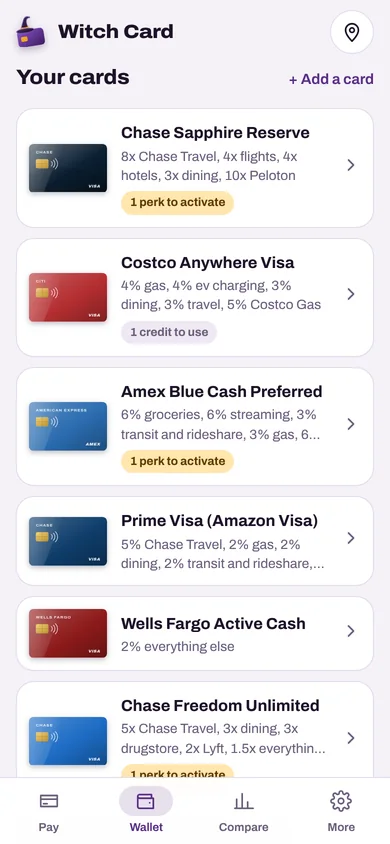
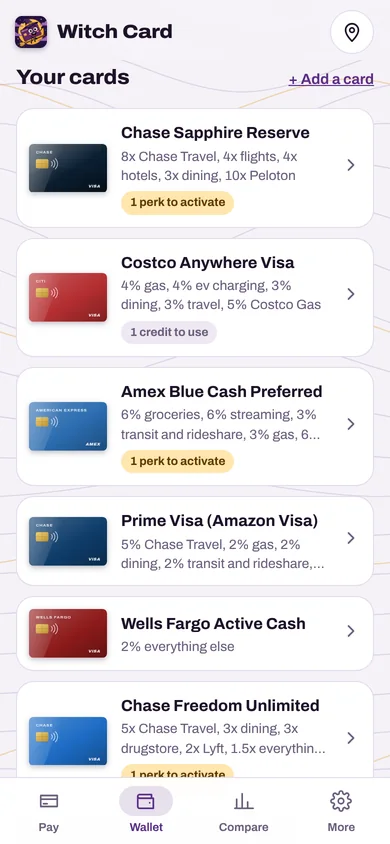
Witch Card: today's changes on the site
Product page: one screen at the counter with nothing to type, Compare as a scale from weak to great with the company asterisk, sign-up offers for your goal, the camera that reads a card, the new mascot icon in the demo bar, 229 cards; the on-page demo drops the amount like the app did. New Compare screen and recaptured screens, captured without the amount field the app no longer has, plus a Best cards capture. Release history, updates page and home page carry October 31 and November 1. Privacy policy adds the camera and drops I used it, effective November 1.

diff --git a/src/pages/products/witch-card.html b/src/pages/products/witch-card.html
@@ -1,6 +1,6 @@
 <!--
 title: Witch Card
-description: Witch Card, formerly Which Card, is a phone app that tells you which credit card to use at the register. Open it at the store and it tells you where you are standing and which of your cards earns the most there. 228 cards from 25 issuers, with no ads, no sponsors, and no referral links.
+description: Witch Card, formerly Which Card, is a phone app that tells you which credit card to use at the register. Open it at the store and it tells you where you are standing and which of your cards earns the most there, on one screen. 229 cards from 25 issuers, with no ads, no sponsors, and no referral links.
 nav: products
 priority: 0.8
 styles: assets/css/product.css
@@ -11,7 +11,7 @@ scripts: assets/js/product.js
     <div class="phero-copy">
       <span class="eyebrow">Product</span>
       <h1>Witch Card</h1>
-      <p class="lede">Open it at the store and it tells you where you are standing and which of your cards to use there, with every other card in your wallet ranked under it. Type the amount and the answer comes in dollars and cents. No magic, just math.</p>
+      <p class="lede">Open it at the store and it tells you where you are standing and which of your cards to use there, with every other card in your wallet ranked under it, all on one screen with nothing to type. No magic, just math.</p>
       <div class="product-hero-meta">
         <span class="badge badge-ok">Phone web app: available</span>
         <span class="badge badge-brass">App Store and Google Play: in testing</span>
@@ -41,26 +41,25 @@ scripts: assets/js/product.js
       <div class="demo-copy">
         <span class="eyebrow">Try a piece of it</span>
         <h2>Which card, at which store?</h2>
-        <p>This is the app's answer screen with six common cards and the app's own rates for them. In the app, your location picks the store the moment you open it; here, tap a store to stand in it. Change the amount and turn cards off to watch the answer change. Nothing here is saved or sent anywhere.</p>
+        <p>This is the app's answer screen with six common cards and the app's own rates for them. In the app, your location picks the store the moment you open it; here, tap a store to stand in it and turn cards off to watch the answer change. Nothing here is saved or sent anywhere.</p>
       </div>
       <div class="wc-device">
         <div class="wc-screen">
           <span class="wc-notch" aria-hidden="true"></span>
-          <div class="wc-bar"><svg class="wc-mark" viewBox="0 -6 46 42" aria-hidden="true" focusable="false"><defs><linearGradient id="wcm-card" x1="0" y1="0" x2="1" y2="1"><stop offset="0" stop-color="#8A55C9"/><stop offset="1" stop-color="#3B1A60"/></linearGradient><linearGradient id="wcm-hat" x1="0" y1="0" x2="1" y2="1"><stop offset="0" stop-color="#4A2F6E"/><stop offset="1" stop-color="#170D20"/></linearGradient></defs><g transform="rotate(-9 23 25)"><rect x="6" y="14" width="33" height="21" rx="4.5" fill="url(#wcm-card)"/><rect x="10" y="22" width="8" height="6" rx="1.6" fill="#F6A623"/><path d="M11 14.6 Q 14 6.5 17 0.5 Q 19.6 -3.8 24.8 -1.2 Q 25.4 -0.6 24.2 -0.3 Q 21 -0.8 20 2.6 Q 18.8 8 22.6 14.6 Z" fill="url(#wcm-hat)" stroke="#7A5AA8" stroke-width=".8" stroke-linejoin="round"/><path d="M11.7 12.6 Q 16.8 13.6 21.9 12.6 L 21.2 10.2 Q 16.8 11.1 12.6 10.2 Z" fill="#F6A623"/><ellipse cx="16.8" cy="14.8" rx="11" ry="2.7" fill="url(#wcm-hat)" stroke="#7A5AA8" stroke-width=".8"/></g></svg>Witch Card</div>
+          <div class="wc-bar"><img class="wc-mark" src="{{root}}assets/img/products/wc-icon.png" alt="" width="30" height="30">Witch Card</div>
           <div class="wc-here" data-wc-here>
             <span class="wc-here-ic" data-wc-ic><svg viewBox="0 0 24 24" aria-hidden="true" focusable="false"><path fill="none" stroke="currentColor" stroke-width="1.8" stroke-linecap="round" stroke-linejoin="round" d="M4 21V5a2 2 0 0 1 2-2h6a2 2 0 0 1 2 2v16M3 21h12M6 7h6v5H6zM14 10h2a2 2 0 0 1 2 2v5a1.5 1.5 0 0 0 3 0V9l-2.5-2.5"/></svg></span>
             <span class="wc-here-t"><small><svg viewBox="0 0 24 24" aria-hidden="true" focusable="false"><path fill="none" stroke="currentColor" stroke-width="1.8" stroke-linecap="round" stroke-linejoin="round" d="M12 22s7-6.5 7-12a7 7 0 1 0-14 0c0 5.5 7 12 7 12zM12 12.5a2.5 2.5 0 1 0 0-5 2.5 2.5 0 0 0 0 5z"/></svg>You're at</small><b data-wc-store>Shell</b><span data-wc-cat>Gas</span></span>
           </div>
           <span class="wc-label" id="wc-try">Try another store</span>
           <div class="wc-stores" role="group" aria-labelledby="wc-try" data-wc-stores></div>
-          <label class="wc-amount"><span class="cur" aria-hidden="true">$</span><input type="text" inputmode="decimal" autocomplete="off" value="45" aria-label="Amount in dollars" data-wc-amount><span class="opt" aria-hidden="true">Amount (optional)</span></label>
           <div data-wc-answer></div>
           <div class="wc-pocket" data-wc-pocket>
             <p class="wc-pocket-label" aria-hidden="true">The rest of your wallet</p>
             <ul class="wc-others" aria-label="The other cards in this wallet, best first" data-wc-others></ul>
           </div>
           <p class="visually-hidden" aria-live="polite" data-wc-say></p>
-          <p class="wc-asof">Rates as of October 2026, from each issuer's own pages. Points are counted at a cent each, with cash back as the priority.</p>
+          <p class="wc-asof">Rates as of November 2026, from each issuer's own pages. Points are counted at a cent each, with cash back as the priority.</p>
         </div>
       </div>
       <div class="wc-side">
@@ -81,18 +80,19 @@ scripts: assets/js/product.js
       <p>If you carry more than one credit card, you have probably used the wrong one at the gas pump. The rules that decide it are public but scattered: rate tables, spending caps, quarterly calendars, card networks a store will not take, and stores that do not count as groceries. Witch Card keeps those rules for you. Open it at the store and the answer is already on the screen.</p>
     </div>
     <ul class="feat-grid">
-      <li><strong>It knows where you are standing</strong><span>With location on, open the app and it names the store you are in and shows the best card there before you type a thing. When it is not sure, it offers the stores near you to tap. A place the map does not know, you name once and it remembers the spot. Type the amount for dollars and cents.</span></li>
+      <li><strong>It knows where you are standing</strong><span>With location on, open the app and it names the store you are in and shows the best card there, with every other card you carry ranked under it, on one screen with nothing to type. When it is not sure, it offers the stores near you to tap. A place the map does not know, you name once and it remembers the spot.</span></li>
       <li><strong>The fine print, worked out</strong><span>Spending caps, rotating 5 percent categories and their activation dates, Prime and non-Prime rates, stores that take Visa only, and the superstores and warehouse clubs that do not count as groceries.</span></li>
-      <li><strong>Every perk on one screen</strong><span>Each card's credits and perks in one list with an Activated switch. If a perk is off, its button opens the bank's own activation page, and a reminder says when something still needs activating.</span></li>
-      <li><strong>The best card you do not have</strong><span>At each store, the card from the full list that would earn the most there after its annual fee, at the number of visits you set, and how many visits it takes to cover the fee. Nobody pays to be listed.</span></li>
-      <li><strong>228 cards, checked every day</strong><span>Cards from 25 issuers and more than 200 stores by name, built from each issuer's own pages. Every source page is checked for changes daily, and a change is reviewed before the card data changes. Missing a card? Add it with the rates that matter to you.</span></li>
+      <li><strong>Every perk on one screen</strong><span>Each card's credits and perks in one list with an Activated switch. If a perk is off, its button opens the bank's own activation page, and a reminder says when something still needs activating. A card with rotating 5 percent categories shows this quarter's categories wherever it sits, with a check once you have activated them.</span></li>
+      <li><strong>How your wallet does</strong><span>Compare puts each kind of place on a scale from weak to great: a plain 1 percent card at one end, the best card anyone can get at the other, and a dot where your best card sits. When one of your cards pays extra at one company, like 5x at Lyft, the row says so with an asterisk. Tap a row for the best cards there, yours marked; a card you already hold that ties for the top is listed first, so it never suggests a card you do not need.</span></li>
+      <li><strong>Sign-up offers for your goal</strong><span>The banks' current welcome offers, ranked by what they are worth to you: cash if cash back is your goal, points at their travel value if that is. Keep it to one bank or a few when you want points that pool together. No referral links; the offer opens the bank's own page.</span></li>
+      <li><strong>229 cards, checked every day</strong><span>Cards from 25 issuers and more than 200 stores by name, built from each issuer's own pages. Every source page is checked for changes daily, and a change is reviewed before the card data changes. Add a card by name, or hold it up to the camera: the app reads the name printed on it, on the phone, letters only and never the number. Missing a card? Add it with the rates that matter to you.</span></li>
       <li><strong>Nothing to sell you</strong><span>No ads, no sponsors, no referral links, and no account. You pick cards by name, the app never asks for a card number, and your wallet stays on your phone.</span></li>
     </ul>
     <details class="more">
       <summary>How the answers are figured, and who it is for</summary>
       <div class="prose">
         <h3>How the answers are figured</h3>
-        <p>With location on, the app checks the businesses around you each time it opens and names the one you are standing in when it is sure (inside its outline on the map, or within about 100 feet); otherwise it offers the nearest few to tap. A place you have been in the last 30 days is answered straight from your phone, with no lookup. Each purchase is matched to the store's category and to any rule a card has for that store by name. Points and miles are counted in cents: at their cash value when cash back is your priority, or at transfer-partner rates when points and miles are. If you are working toward a sign-up bonus, the card with the unfinished spending goal goes first. The number shown is what that purchase earns under the card's published terms. Tap I used it and the purchase counts toward that card's spending caps.</p>
+        <p>With location on, the app checks the businesses around you each time it opens and names the one you are standing in when it is sure (inside its outline on the map, or within about 100 feet); otherwise it offers the nearest few to tap. A place you have been in the last 30 days is answered straight from your phone, with no lookup. Each purchase is matched to the store's category and to any rule a card has for that store by name. Points and miles are counted in cents: at their cash value when cash back is your priority, or at transfer-partner rates when points and miles are. If you are working toward a sign-up bonus, the card with the unfinished spending goal goes first. The rate shown is what the card earns there under its published terms. Travel counts flights and hotels booked directly, and booking through a bank's own travel site is its own kind of place, so a card that pays 8x through Chase Travel and 4x direct shows both.</p>
         <h3>Who it is for</h3>
         <p>People who pay the statement in full every month, so rewards are the only reason to pick one card over another. If you carry a balance, the interest costs more than any card gives back.</p>
         <h3>Independence</h3>
@@ -108,10 +108,10 @@ scripts: assets/js/product.js
   <div class="wrap">
     <h2>Screens</h2>
     <div class="screens-grid phones">
-      <figure class="tall"><img src="{{root}}assets/img/products/wc-phone-anywhere.webp" alt="The rest of the wallet ranked in its pocket, and under it the best card you do not have at this gas station, with how much more it would earn in a year after its fee" width="390" height="844" loading="lazy"><figcaption>The best card you do not have at this store, after its annual fee. Nobody pays for that spot.</figcaption></figure>
+      <figure class="tall"><img src="{{root}}assets/img/products/wc-phone-compare.webp" alt="Compare: each kind of place on a red to green scale with a dot where the wallet's best card sits, and an asterisk where one card pays extra at one company" width="390" height="844" loading="lazy"><figcaption>How your wallet does at each kind of place, from weak to great, with an asterisk when one card pays extra at one company.</figcaption></figure>
+      <figure class="tall"><img src="{{root}}assets/img/products/wc-phone-anywhere.webp" alt="The best cards at this gas station, ranked, with the cards already in the wallet marked" width="390" height="844" loading="lazy"><figcaption>The best cards at this store, yours marked. Nobody pays for a spot.</figcaption></figure>
       <figure class="tall"><img src="{{root}}assets/img/products/wc-phone-perks.webp" alt="The perks list for one card, each perk with an Activated switch and an Activate button" width="390" height="844" loading="lazy"><figcaption>Every perk with an Activated switch. Activate opens the bank's own page.</figcaption></figure>
-      <figure class="tall"><img src="{{root}}assets/img/products/wc-phone-wallet.webp" alt="The wallet: each card with what it earns most on and what still needs activating" width="390" height="844" loading="lazy"><figcaption>Your cards, picked by name, with what each one is best at.</figcaption></figure>
-      <figure class="tall"><img src="{{root}}assets/img/products/wc-phone-hello.webp" alt="The first screen: a cartoon card dressed as a witch, riding a broom, over a note that the app was built for people who pay in full" width="390" height="844" loading="lazy"><figcaption>The first screen, and the whole idea: pay in full, then let the rewards decide.</figcaption></figure>
+      <figure class="tall"><img src="{{root}}assets/img/products/wc-phone-hello.webp" alt="The welcome note: a cartoon card dressed as a witch flies its broom across a gold moon, over a note that the app was built for people who pay in full" width="390" height="844" loading="lazy"><figcaption>The welcome note, and the whole idea: pay in full, then let the rewards decide.</figcaption></figure>
     </div>
   </div>
 </section>
@@ -121,13 +121,15 @@ scripts: assets/js/product.js
     <dl>
       <div><dt>Status</dt><dd>Phone web app available; App Store and Google Play versions in testing</dd></div>
       <div><dt>Price</dt><dd>Free while in testing. No ads and no subscription, ever.</dd></div>
-      <div><dt>Cards covered</dt><dd>228 from 25 issuers, as of October 28, 2026</dd></div>
+      <div><dt>Cards covered</dt><dd>229 from 25 issuers, as of November 1, 2026</dd></div>
       <div><dt>Data lives</dt><dd>On your phone. No account, no card numbers.</dd></div>
       <div><dt>Support and privacy</dt><dd><a href="{{root}}support.html#witch-card">Support</a>, <a href="{{root}}privacy.html#witch-card">privacy policy</a></dd></div>
     </dl>
     <details class="history">
       <summary>Release history</summary>
       <ol class="timeline">
+        <li><time datetime="2026-11-01">November 1, 2026</time><h3>A new mascot, and how your wallet really does</h3><p>The home-screen icon and the welcome note have a new cartoon mascot, a card in a witch hat flying its broom across the moon. Compare now counts flights and hotels as travel, so a Sapphire Reserve is no longer judged on its base rate, and when one of your cards pays extra at one company, like 5x at Lyft, the row says so with an asterisk. Adding a card lists the best-known cards first and business cards last. A card with rotating categories shows this quarter's categories and whether they are activated wherever it sits.</p></li>
+        <li><time datetime="2026-10-31">October 31, 2026</time><h3>One screen at the counter, Compare rebuilt, and a camera that reads your card</h3><p>The card to use and its rate come first, with nothing to type, and the rest of your wallet fills the screen under it, ranked. Compare is a scale from weak to great for each kind of place, with sign-up offers ranked for your goal and a row of banks to pick from. A card you already hold that ties for the top is listed first. Hold a card up to the camera and the app reads its name on the phone, letters only. The original Chase Freedom is in the list. More motion throughout, and fine curvy lines drift behind everything.</p></li>
         <li><time datetime="2026-10-31">October 31, 2026</time><h3>Finds the store faster, and asks when it is not sure</h3><p>A second map source answers in under a second when the others are busy. The app only says you are at a store when it is sure, offers the stores near you otherwise, guesses what kind of place an unknown name is, and remembers a spot you name. The kinds of place are compact pills now, so the answer fits on one screen.</p></li>
         <li><time datetime="2026-10-29">October 29, 2026</time><h3>Which Card is now Witch Card</h3><p>Same app, new name. The mascot is a card dressed as a witch, a witch hat lands on the card to use, and the home-screen icon is a card in a witch hat. Nothing you saved changes.</p></li>
         <li><time datetime="2026-10-29">October 29, 2026</time><h3>A new look, and a faster store finder</h3><p>The card to use is drawn big, as if just pulled from your wallet, with the rest of your cards ranked in a pocket under it, in new colors for light and dark mode. The store you are standing in shows up faster, and right away at places you have been in the last 30 days.</p></li>
@@ -141,7 +143,7 @@ scripts: assets/js/product.js
   <div class="wrap">
     <div>
       <h2>Use the right card at the next pump.</h2>
-      <p>Witch Card works in any phone browser today and can sit on your home screen like any other app. Open it at the pump and the answer is waiting. Subscribe to the newsletter and we will say when the store versions are out.</p>
+      <p>Witch Card works in any phone browser today and can sit on your home screen like any other app. Open it at the pump and the answer is waiting, on one screen. Subscribe to the newsletter and we will say when the store versions are out.</p>
     </div>
     <div class="actions">
       <a class="btn btn-brass" href="{{root}}witch-card/">Open Witch Card</a>

diff --git a/src/pages/privacy.html b/src/pages/privacy.html
@@ -15,7 +15,7 @@ priority: 0.6
 <section class="section">
   <div class="wrap split">
     <div class="prose">
-      <p class="muted small">Effective October 31, 2026. Tompkins Software Systems LLC, an Illinois limited liability company, is the data controller for everything described here.</p>
+      <p class="muted small">Effective November 1, 2026. Tompkins Software Systems LLC, an Illinois limited liability company, is the data controller for everything described here.</p>
 
       <h2 id="website">This website</h2>
       <ul>
@@ -43,7 +43,8 @@ priority: 0.6
       <h2 id="witch-card">Witch Card</h2>
       <ul>
         <li><strong>No account, and no card numbers.</strong> You pick your cards by name. The app never asks for a card number, a login, or anything that would let it reach your accounts.</li>
-        <li><strong>Your wallet stays on your phone.</strong> The cards you pick, your settings, and any purchases you log with "I used it" are stored in the app's storage on your phone. We never receive them.</li>
+        <li><strong>Your wallet stays on your phone.</strong> The cards you pick and your settings are stored in the app's storage on your phone. We never receive them.</li>
+        <li><strong>Scanning a card uses the camera on your phone only.</strong> The reader runs on the phone, reads letters and never the number, and the picture is dropped as soon as the card is named. Nothing from the camera leaves the phone, and the camera is off the moment the sheet closes.</li>
         <li><strong>Card data comes from the app's own site.</strong> The app downloads the card list, rates, and perks from the same site that serves the app. That download sends nothing about you; the host may keep standard server logs, as any web host does.</li>
         <li><strong>Location is off until you turn it on.</strong> When it is on, each time you open the app it asks your phone for its position. At a place it has not seen in the last 30 days, it sends that position to public OpenStreetMap services (photon.komoot.io, overpass-api.de, overpass.private.coffee and overpass.kumi.systems, asked together so the first to answer wins) to find the stores around you. The position is never sent to us. So a return visit is instant, the stores it found and where the lookup was made (to about 10 meters) stay on your phone for 30 days; turning location off or erasing the app clears them.</li>
         <li><strong>A store name you type</strong> that the app does not know is sent to photon.komoot.io, with your position when location is on, to learn what kind of place it is.</li>

diff --git a/src/pages/index.html b/src/pages/index.html
@@ -153,7 +153,7 @@ scripts: assets/js/sfx.js, assets/js/home.js
       <div class="prod-copy">
         <div class="status"><span class="badge badge-ok">Phone web app: available</span><span class="badge badge-brass">App Store and Google Play: in testing</span></div>
         <h3><a href="{{root}}products/witch-card.html">Witch Card</a></h3>
-        <p>Open it at the store and it tells you where you are standing and which of your cards earns the most there. It covers 228 cards from 25 issuers, keeps a checklist of each card's perks, and has no ads, sponsors, or referral links.</p>
+        <p>Open it at the store and it tells you where you are standing and which of your cards earns the most there. It covers 229 cards from 25 issuers, keeps a checklist of each card's perks, and has no ads, sponsors, or referral links.</p>
         <div class="actions"><a class="btn btn-primary btn-small" href="{{root}}products/witch-card.html#try">Try a piece of it</a><a class="btn btn-outline btn-small" href="{{root}}witch-card/">Open Witch Card</a></div>
       </div>
     </article>
@@ -195,9 +195,9 @@ scripts: assets/js/sfx.js, assets/js/home.js
   <div class="wrap">
     <h2>Latest</h2>
     <ul>
+      <li><time datetime="2026-11-01">November 1</time><span>Witch Card gets a new mascot on its icon and welcome note, Compare counts flights and hotels as travel, and a row says when one of your cards pays extra at one company.</span></li>
+      <li><time datetime="2026-10-31">October 31</time><span>Witch Card fits on one screen at the counter with nothing to type, Compare is rebuilt as a scale from weak to great with sign-up offers for your goal, and the camera reads a card's name.</span></li>
       <li><time datetime="2026-10-29">October 29</time><span>Which Card is now Witch Card: same app, a new look, and a witch for a mascot. No magic, just math.</span></li>
-      <li><time datetime="2026-10-28">October 28</time><span>Which Card opens as a phone web app: open it at the store and it tells you where you are standing and which card to use. The App Store and Google Play versions are in testing.</span></li>
-      <li><time datetime="2026-10-23">October 23</time><span>Public Works Safety Training becomes IntelliSafe, with nineteen modules, eight-section incident reports, and site inspections.</span></li>
     </ul>
     <a href="{{root}}updates.html">All updates</a>
   </div>

diff --git a/src/pages/updates.html b/src/pages/updates.html
@@ -17,6 +17,16 @@ priority: 0.7
     <div>
       <ol class="timeline">
         <li>
+          <time datetime="2026-11-01">November 1, 2026</time>
+          <h3>Witch Card gets a new mascot, and Compare tells the truth about travel</h3>
+          <p>The home-screen icon and the welcome note have a new cartoon mascot, a card in a witch hat flying its broom across the moon. Compare now counts flights and hotels as travel, so a premium travel card is no longer judged on its base rate, and when one of your cards pays extra at one company, like 5x at Lyft, the row says so with an asterisk. Adding a card lists the best-known cards first and business cards last, and a card with rotating categories shows this quarter's categories and whether they are activated wherever it sits in your wallet.</p>
+        </li>
+        <li>
+          <time datetime="2026-10-31">October 31, 2026</time>
+          <h3>Witch Card: one screen at the counter, Compare rebuilt, and a camera that reads your card</h3>
+          <p>The card to use and its rate come first with nothing to type, and the rest of your wallet fills the screen under it, ranked. Compare is now a scale from weak to great for each kind of place, with sign-up offers ranked for your goal and a row of banks to pick from; a card you already hold that ties for the top is listed first, so it never suggests a card you do not need. Hold a card up to the camera and the app reads its name on the phone, letters only, never the number. The original Chase Freedom joins the list. More motion throughout, and fine curvy lines drift behind everything.</p>
+        </li>
+        <li>
           <time datetime="2026-10-31">October 31, 2026</time>
           <h3>Witch Card finds the store faster and asks when it is not sure</h3>
           <p>A second map source answers in under a second when the others are busy. The app only says you are at a store when it is sure, offers the stores near you otherwise, guesses what kind of place an unknown name is, and remembers a spot you name so it knows next time. The Pay screen is lighter: the kinds of place are compact pills, and the answer fits on one screen.</p>

diff --git a/src/assets/js/product.js b/src/assets/js/product.js
@@ -182,7 +182,7 @@
   var wc = document.getElementById("demo-wc");
   if (wc) {
     var wcOn = {}, wcStore = WC_STORES[0], wcLast = null, wcSeq = 0;
-    var wcWallet = wc.querySelector("[data-wc-wallet]"), wcStores = wc.querySelector("[data-wc-stores]"), wcAmount = wc.querySelector("[data-wc-amount]");
+    var wcWallet = wc.querySelector("[data-wc-wallet]"), wcStores = wc.querySelector("[data-wc-stores]");
     var wcPrime = wc.querySelector("[data-wc-prime]"), wcAnswer = wc.querySelector("[data-wc-answer]"), wcOthers = wc.querySelector("[data-wc-others]"), wcSay = wc.querySelector("[data-wc-say]");
     var wcHere = wc.querySelector("[data-wc-here]"), wcStoreName = wc.querySelector("[data-wc-store]"), wcStoreCat = wc.querySelector("[data-wc-cat]");
     var wcIc = wc.querySelector("[data-wc-ic]"), wcPocket = wc.querySelector("[data-wc-pocket]");
@@ -242,7 +242,7 @@
     };
 
     var wcRender = function () {
-      var amount = Math.min(parseFloat(String(wcAmount.value).replace(/[^0-9.]/g, "")) || 0, 1000000);
+      var amount = 0;  // the app ranks by rate; there is nothing to type at the counter
       var cards = WC_CARDS.filter(function (c) { return wcOn[c.id]; });
       wcAnswer.innerHTML = ""; wcOthers.innerHTML = ""; wcPocket.hidden = true;
       wcStoreName.textContent = wcStore.name; wcStoreCat.textContent = WC_CAT_NAMES[wcStore.cats[0]] || "";
@@ -308,8 +308,6 @@
       });
       wcStores.appendChild(b);
     });
-    wcAmount.addEventListener("input", wcRender);
-    wcAmount.addEventListener("focus", function () { wcAmount.select(); });
     wcPrime.addEventListener("change", wcRender);
     wcRender();
   }

diff --git a/src/pages/products.html b/src/pages/products.html
@@ -65,7 +65,7 @@ styles: assets/css/home.css
       <div class="prod-copy">
         <div class="status"><span class="badge badge-ok">Phone web app: available</span><span class="badge badge-brass">App Store and Google Play: in testing</span></div>
         <h3><a href="{{root}}products/witch-card.html">Witch Card</a></h3>
-        <p>A phone app that tells you which credit card to use at the register. Open it at the store and it tells you where you are standing and which of your cards earns the most there, with the rest ranked under it and caps, rotating categories, and Visa-only stores worked out. A perks checklist links to each bank's activation page. It covers 228 cards from 25 issuers and has no ads, sponsors, or referral links.</p>
+        <p>A phone app that tells you which credit card to use at the register. Open it at the store and it tells you where you are standing and which of your cards earns the most there, with the rest ranked under it and caps, rotating categories, and Visa-only stores worked out. A perks checklist links to each bank's activation page. It covers 229 cards from 25 issuers, reads a card with the camera, and has no ads, sponsors, or referral links.</p>
         <p><strong>For:</strong> anyone who carries more than one credit card and pays the statement in full.</p>
         <div class="actions"><a class="btn btn-primary btn-small" href="{{root}}products/witch-card.html">Product page</a><a class="btn btn-outline btn-small" href="{{root}}witch-card/">Open Witch Card</a></div>
       </div>

diff --git a/src/assets/css/product.css b/src/assets/css/product.css
@@ -231,7 +231,7 @@
 .wc-screen { position: relative; border-radius: 36px; background: #F5F2F8; color: #1E1328; padding: 12px 14px 18px; font-family: "Archivo WC", var(--font-body); font-size: 15px; font-weight: 430; line-height: 1.4; overflow: hidden; }
 .wc-notch { display: block; width: 92px; height: 24px; margin: 0 auto 8px; border-radius: 999px; background: #1B1222; }
 .wc-bar { display: flex; align-items: center; gap: 10px; padding: 2px 2px 14px; font-weight: 820; font-stretch: 112%; font-size: 18px; letter-spacing: -0.015em; }
-.wc-bar .wc-mark { flex: none; width: 34px; height: 31px; margin: -6px -3px -2px -2px; filter: drop-shadow(0 3px 4px rgba(42, 22, 64, 0.3)); }
+.wc-bar .wc-mark { flex: none; width: 30px; height: 30px; margin: -3px 0 -3px -1px; border-radius: 7px; filter: drop-shadow(0 2px 3px rgba(42, 22, 64, 0.3)); }
 
 /* "You're at": the store the phone is standing in, with its category's icon */
 .wc-here { display: grid; grid-template-columns: 46px minmax(0, 1fr); gap: 12px; align-items: center; margin-bottom: 16px; }

diff --git a/tools/refresh_screens.py b/tools/refresh_screens.py
@@ -122,6 +122,7 @@ WC_SEED = """(ids) => {
     const e = { cardId: id, added: at, activated: {}, purchases: [] };
     if (id === 'chase-prime-visa') e.memberships = { 'amazon-prime': true };
     if (id === 'chase-sapphire-reserve') e.perkState = { 'apple-tv-music': { at }, 'dashpass': { at }, 'lyft-credit': { at }, 'travel-credit': { at } };
+    e.activated[quarter] = true;
     return e;
   });
   const dismissed = {}; dismissed['perks:' + quarter] = true;
@@ -150,23 +151,20 @@ def r_wc(path="index.html", then=None, first_run=False):
     return go
 
 
-def wc_amount(value, then=None):
-    """Wait for the app to name the store it found, then type the amount."""
+def wc_found(then=None):
+    """Wait for the app to name the store it found (there is nothing to type), then run a step."""
     def step(page):
         page.wait_for_selector(".where-chip.here", timeout=10000)
-        page.fill("#amount", value)
-        page.evaluate("document.activeElement && document.activeElement.blur()")
         settle(page)
         if then:
             then(page)
     return step
 
 
-def wc_scroll_to(selector):
-    def step(page):
-        page.locator(selector).first.scroll_into_view_if_needed(timeout=5000)
-        page.evaluate("(s) => document.querySelector(s).scrollIntoView({block: 'center'})", selector)
-    return step
+def wc_best_cards(page):
+    """Open the best cards at this store from the wallet pocket: yours marked, the rest ranked."""
+    page.locator("#answer button.more").first.click(timeout=5000)
+    page.wait_for_selector(".sheet .best-row", timeout=5000)
 
 
 def wc_tab(view):
@@ -210,8 +208,9 @@ SCREENS = [
     ("ps-home", "ps", "desktop", r_goto("index.html")),
     ("ps-music", "ps", "desktop", r_goto("music/")),
     ("ps-phone", "ps", "phone", r_goto("index.html")),
-    ("wc-phone", "wc", "phone", r_wc(then=wc_amount("45"))),
-    ("wc-phone-anywhere", "wc", "phone", r_wc(then=wc_amount("45", then=wc_scroll_to(".anywhere")))),
+    ("wc-phone", "wc", "phone", r_wc(then=wc_found())),
+    ("wc-phone-anywhere", "wc", "phone", r_wc(then=wc_found(then=wc_best_cards))),
+    ("wc-phone-compare", "wc", "phone", r_wc(then=wc_found(then=wc_tab("offers")))),
     ("wc-phone-perks", "wc", "phone", r_wc(then=wc_card("Sapphire Reserve", perk="Apple TV"))),
     ("wc-phone-wallet", "wc", "phone", r_wc(then=wc_tab("wallet"))),
     ("wc-phone-hello", "wc", "phone", r_wc(first_run=True)),
